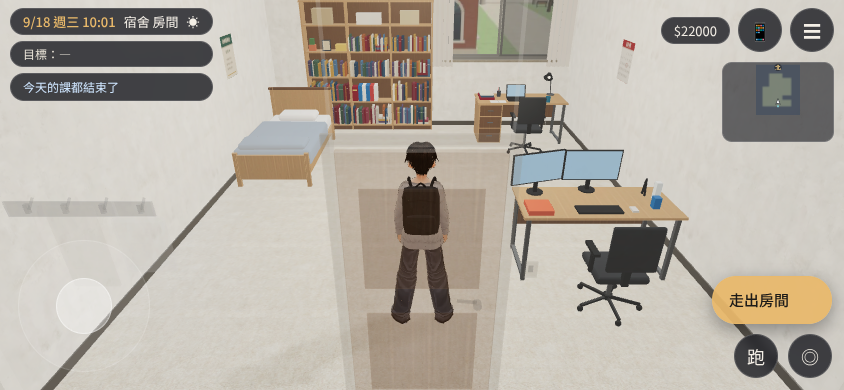
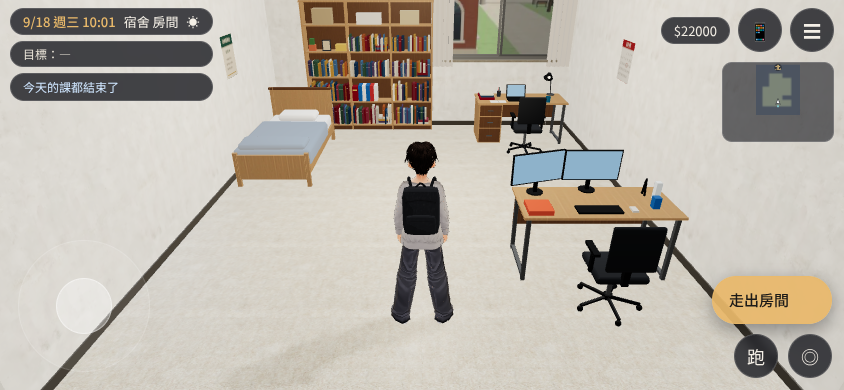
QA-W1：BUG-LIGHTBAND 修正後重拍宿舍，半透明直條消失
Claude-Session: https://claude.ai/code/session_01DvRVNNnivf7da7qqWuGmw6

diff --git a/docs/handoff/VISUAL_WALKTHROUGH_W1.md b/docs/handoff/VISUAL_WALKTHROUGH_W1.md
@@ -10,7 +10,7 @@
 
 | # | 做什麼 | 看什麼 | 狀態 |
 |---|---|---|---|
-| A1 | 開新遊戲 → 宿舍 | 人物站在地上、沒有卡在床或桌子裡；燈光正常；HUD 日期 | 🟨 站姿、燈光、HUD 正常；鏡頭前一道半透明直條＝BUG-LIGHTBAND（已修 0dc2acbc，待重拍）`shots/qa_w1/A1_宿舍.png` |
+| A1 | 開新遊戲 → 宿舍 | 人物站在地上、沒有卡在床或桌子裡；燈光正常；HUD 日期 | ✅ 站姿、燈光、HUD 正常；鏡頭前的半透明直條（BUG-LIGHTBAND）修好後重拍已消失（0dc2acbc）`shots/qa_w1/A1_宿舍.png` |
 | A2 | 坐在書桌前、躺床睡覺 | 坐在椅子上（不是空中、不是桌子裡）；睡覺時在床上 | ✅ 書桌坐姿 `A2_宿舍書桌.png`（睡覺還沒拍） |
 | A3 | 走出房間 → 宿舍走廊 → 樓梯 → 門廳 | 樓梯腳踩在階上；牆不閃；鏡頭不穿牆 | ⬜ |
 | A4 | 按地圖、關地圖 | 畫面不變黑、人物不變黑影（BUG-MAPBLACK） | 🟨 自動：開關 5 次只新開 1 張 canvas、關掉釋放（b3d67056）`A4_大地圖.png`；黑畫面要 iPhone 驗 |
